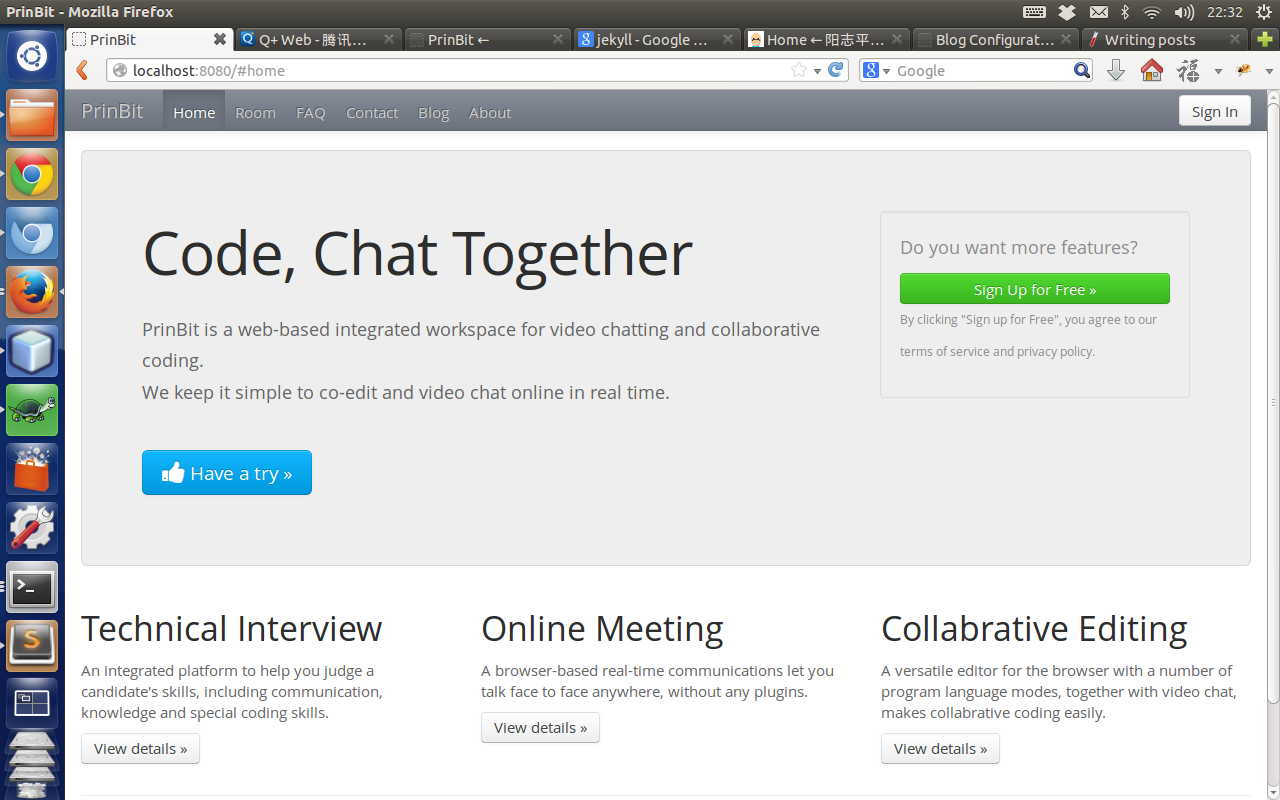
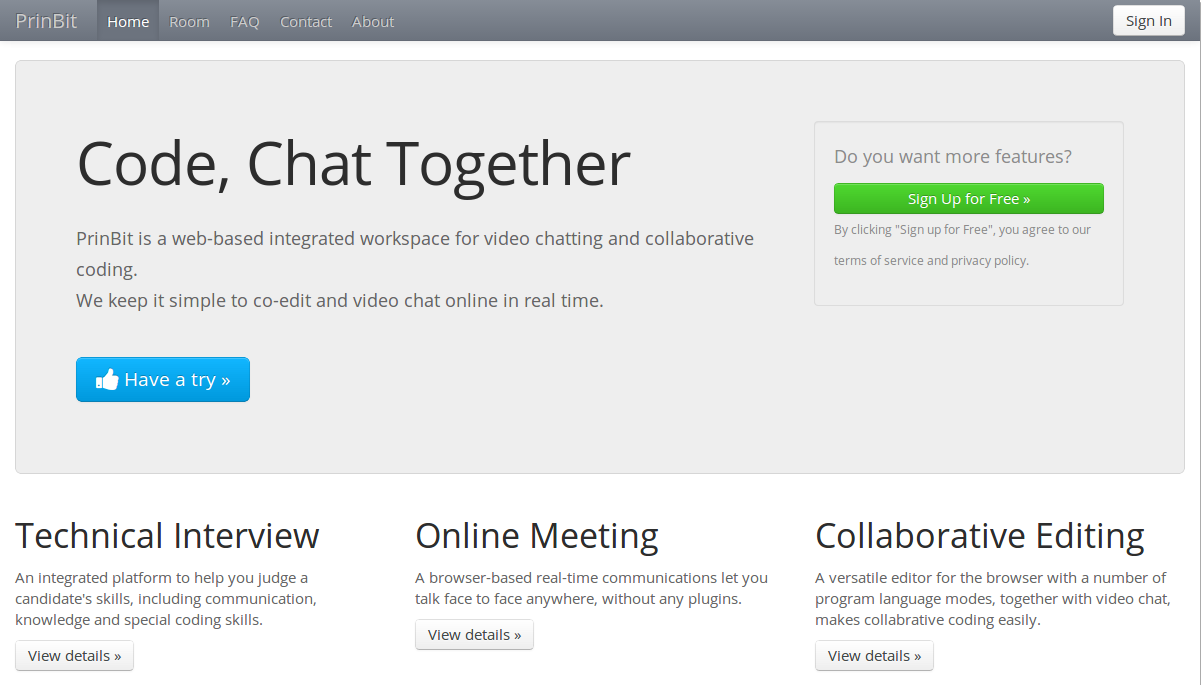
index

Changed region(s): [[0.0, 0.0, 1.0, 1.0], [0.6778, 0.2146, 0.9242, 0.4599], [0.3389, 0.7664, 0.647, 0.9504]]

diff --git a/index.md b/index.md
@@ -3,17 +3,22 @@ layout: page
 title: PrinBit
 tagline: Supporting tagline
 ---
+Hello, PrinBit
+
+`PrinBit` will go production from 2013-10-01 :)
 
 <img src="/assets/imgs/prinbit.png" style="width:100%;">
-<br>
+
+<img src="/assets/imgs/pbroom.png" style="width:100%;">
+
 
 `PrinBit` is a web-based integrated workspace for video chatting and collaborative coding.
 
-We keep it simple to co-edit and video chat online in real time.
+It keeps simple to co-edit and video chat online in real time.
 
-Here's a sample "posts list".
+Here are the scenarios of `PrinBit`:
 <ul>
   <li>Technical Interview</li>
   <li>Online Meeting</li>
-  <li>Collabrative Editing</li>
+  <li>Collaborative Editing</li>
 </ul>
